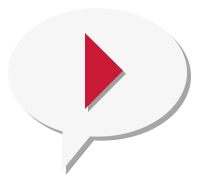
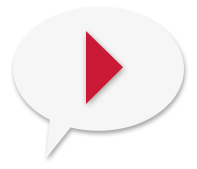
added new images

diff --git a/index.html b/index.html
@@ -40,7 +40,7 @@
 			</div>
 			<div class="baymax-container-flex">
 			<div class="baymax-scale">
-				<img src="images/baymaxmob	.png" alt="">	
+				<img src="images/baymax-mobile.png" alt="">	
 				</div>
 			</div>
 
